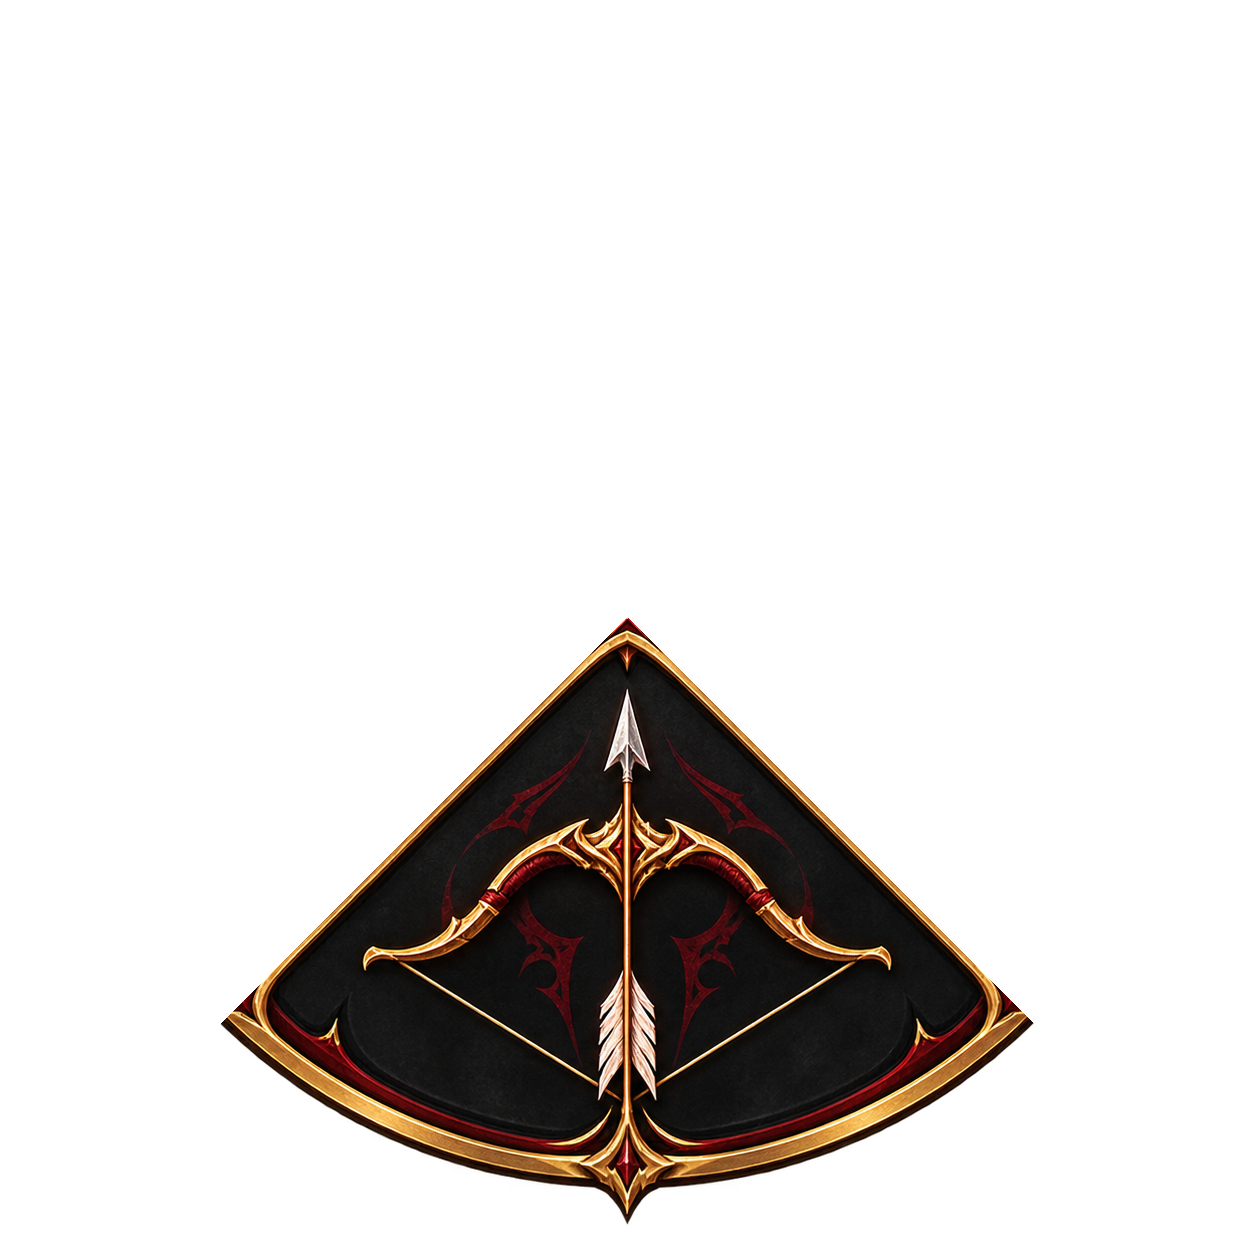
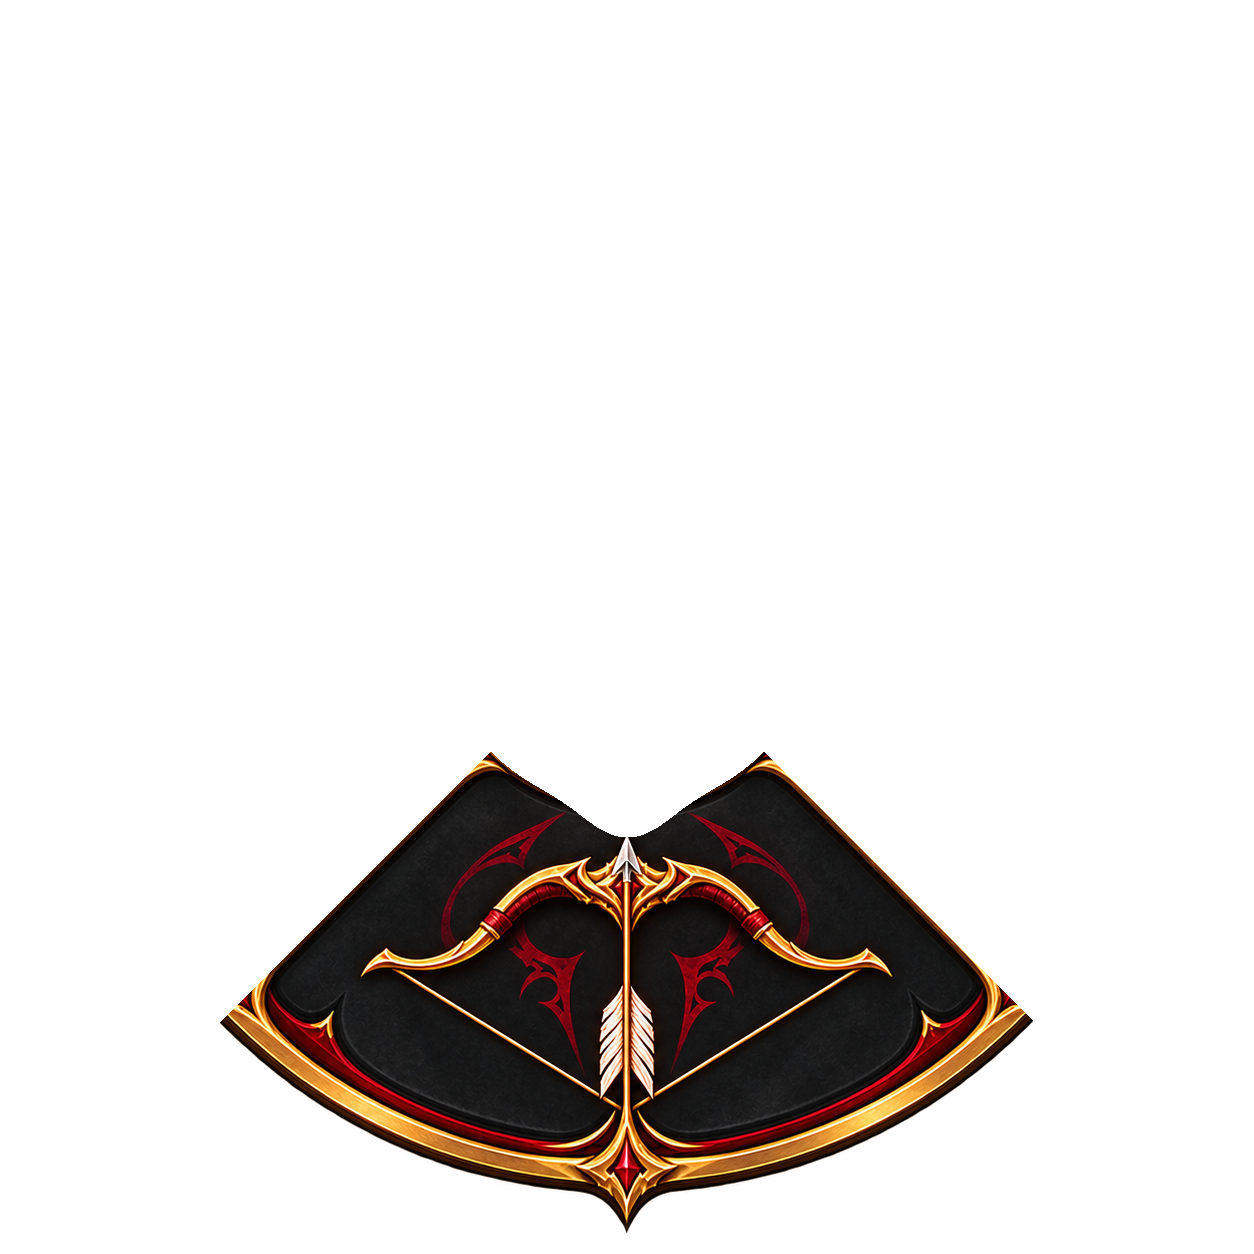
공격 버튼: 새 그림(가운데 공격 원), 1.3배, 가운데·대각선은 무기 유지·가장자리만 무기 변경
Claude-Session: https://claude.ai/code/session_011LLFgXL2gE2cujxs1GaS93

diff --git a/src/town/ui.js b/src/town/ui.js
@@ -228,17 +228,21 @@ atk.addEventListener('pointerdown', e => {
 });
 // X자 공격 버튼: 위=창, 아래=활, 왼쪽=검, 오른쪽=지팡이(케인 시안 attack_selector). 누른 구역 무기로 즉시 바꿔 들고 공격.
 const ZONE_SLOT={up:'w4',down:'w3',left:'w1',right:'w2'},ZONE_NAME={w1:'검',w2:'지팡이',w3:'활',w4:'창'};
-function zoneAt(e){const r=atk.getBoundingClientRect(),dx=e.clientX-(r.left+r.width/2),dy=e.clientY-(r.top+r.height/2);return Math.abs(dx)>Math.abs(dy)?(dx<0?'left':'right'):(dy<0?'up':'down');}
+// 가운데 원(반지름 36%) = 지금 무기로 공격만. 대각선 경계(두 방향 차이 20% 안)도 무기 그대로. 가장자리를 확실히 눌러야 무기 변경
+function zoneAt(e){const r=atk.getBoundingClientRect(),R=r.width/2,dx=e.clientX-(r.left+R),dy=e.clientY-(r.top+R),ax=Math.abs(dx),ay=Math.abs(dy);
+  if(Math.hypot(dx,dy)<R*.36)return null;if(Math.abs(ax-ay)<Math.max(ax,ay)*.2)return null;
+  return ax>ay?(dx<0?'left':'right'):(dy<0?'up':'down');}
 function switchWeapon(slot,quiet){
   if(!isWSlot(slot)||slot===cur)return !!eq[slot];
   if(!eq[slot]){if(!quiet)G.say(ZONE_NAME[slot]+' 칸이 비어 있습니다');return false;}
   qsSaveCur();cur=slot;qsLoadCur();syncHud();saveGame();return true;
 }
-function pickZoneWeapon(e){if(e&&e.clientX!=null)switchWeapon(ZONE_SLOT[zoneAt(e)]);}
+function pickZoneWeapon(e){if(!e||e.clientX==null)return;const z=zoneAt(e);if(z)switchWeapon(ZONE_SLOT[z]);}
 function syncAtkZones(){
   if(!atk.querySelector('.atkz')&&A.kit&&A.kit.atk_all){
     atk.style.backgroundImage='url('+A.kit.atk_all+')';atk.classList.add('xsel');
     for(const [z,k] of [['up','atk_spear'],['down','atk_bow'],['left','atk_sword'],['right','atk_magic']]){const im=document.createElement('img');im.className='atkz';im.dataset.z=z;im.alt='';im.src=A.kit[k];atk.append(im);}
+    if(A.kit.atk_center){const c=document.createElement('img');c.className='atkc';c.alt='';c.src=A.kit.atk_center;atk.append(c);}
   }
   for(const im of atk.querySelectorAll('.atkz')){const sl=ZONE_SLOT[im.dataset.z];im.classList.toggle('zon',sl===cur&&!!eq[sl]);im.classList.toggle('zdim',sl!==cur&&!!eq[sl]);im.classList.toggle('zno',!eq[sl]);}
   atkIc.style.display=atk.classList.contains('xsel')?'none':'';
@@ -269,8 +273,8 @@ requestAnimationFrame(frame);
 
 
 // ---- 퀵슬롯 5칸 (케인 시안 위치). 비워 두고, 스킬 탭에서 끌어다 놓아 채움 ----
-const QPOS = [[-49, -88], [27, -102], [-99, -39], [-95, 32], [-47, 85]];   // 큰 버튼 가운데 기준
-const SWAPPOS = [30, 88];
+const QPOS = [[-49, -88], [27, -102], [-99, -39], [-95, 32], [-47, 85]].map(([x,y])=>[Math.round(x*1.12),Math.round(y*1.12)]);   // 공격 버튼 1.3배에 맞춰 바깥으로   // 큰 버튼 가운데 기준
+const SWAPPOS = [35, 104];
 const QS = [null, null, null, null, null];
 // 무기별 스킬 칸(케인 2026-10-14): 무기를 바꾸면 둘레 5칸도 그 무기 것으로 바뀐다.
 const QSW={w1:[null,null,null,null,null],w2:[null,null,null,null,null],w3:[null,null,null,null,null],w4:[null,null,null,null,null]};
@@ -302,7 +306,7 @@ const lifeIcon=id=>A.skicon[LIFE_ICON[id]]||K.ring;
 const quickLearned=id=>id==='townPortal'?((G.P.lifeSkills&&G.P.lifeSkills.townPortal)||0)>0:skillLearned(id);
 const quickIcon=id=>id==='townPortal'?lifeIcon('townPortal'):A.skicon[id];
 const skBtns = [...document.querySelectorAll('.sk')];
-const C0 = 62;
+const C0 = 80.5;   // 공격 버튼(161px) 가운데
 skBtns.forEach((b, i) => { b.style.left = (C0 + QPOS[i][0]) + 'px'; b.style.top = (C0 + QPOS[i][1]) + 'px'; b.hidden = false; });
 $('swap').style.left = (C0 + SWAPPOS[0]) + 'px'; $('swap').style.top = (C0 + SWAPPOS[1]) + 'px';
 // 물약 버튼 3개: 빨강 HP / 파랑 MP / 보라 HP+MP, 각 7티어.

diff --git a/src/town/shell.html b/src/town/shell.html
@@ -223,7 +223,7 @@ html.app #fs{display:none}
 #stick{position:fixed;left:max(46px,calc(env(safe-area-inset-left) + 46px));bottom:34px;width:128px;height:128px;border-radius:50%;background:radial-gradient(circle,#ffffff22,#ffffff14 60%,#ffffff08);border:2px solid #ffffff30;pointer-events:none;opacity:.45;transition:opacity .15s}
 #stick.act{opacity:1}
 #knob{position:absolute;left:36px;top:36px;width:56px;height:56px;border-radius:50%;background:radial-gradient(circle at 40% 35%,#ffffff70,#ffffff35);box-shadow:0 2px 6px #0005}
-#cluster{position:fixed;right:max(24px,calc(env(safe-area-inset-right) + 24px));bottom:74px;width:124px;height:124px;pointer-events:none}
+#cluster{position:fixed;right:max(24px,calc(env(safe-area-inset-right) + 24px));bottom:74px;width:161px;height:161px;pointer-events:none}
 .qsp{position:absolute;left:58px;right:52px;top:100px;bottom:52px;display:flex;flex-direction:column;justify-content:space-evenly;gap:10px;padding:12px 14px;border-radius:16px;background:#efe0bd;box-shadow:inset 0 0 0 2px #c9a46a,0 2px 8px #0004}
 .qsnote{font:700 13px "Noto Sans KR",sans-serif;color:#5a3a1c;background:#fff6e2c0;border-radius:8px;padding:7px 10px;line-height:1.35}
 .qsrow{display:flex;align-items:center;gap:8px;padding:8px 8px;border-radius:12px;background:#3a240f22}
@@ -236,6 +236,8 @@ html.app #fs{display:none}
 #atk .atkz{position:absolute;inset:0;width:100%;height:100%;pointer-events:none;opacity:0;transition:opacity .12s}
 #atk .atkz.zon{opacity:1;filter:brightness(1.45) saturate(1.2) drop-shadow(0 0 9px #ffd76a) drop-shadow(0 0 3px #fff3c0)}
 #atk .atkz.zdim{opacity:.6;filter:brightness(.35)}
+#atk .atkc{position:absolute;inset:0;width:100%;height:100%;pointer-events:none;filter:drop-shadow(0 0 4px #000a)}
+#atk:active .atkc{filter:brightness(1.35) drop-shadow(0 0 8px #ffd76a)}
 #atk .atkz.zno{opacity:.85;filter:grayscale(1) brightness(.22)}
 #swap{display:none!important}
 #atk{position:absolute;inset:0;border:0;padding:0;border-radius:50%;background:var(--ring) center/100% 100% no-repeat;pointer-events:auto;filter:drop-shadow(0 4px 6px #000a);transition:transform .08s}
@@ -348,14 +350,14 @@ html.app #fs{display:none}
 .pot{position:fixed;width:34px!important;height:34px!important;margin:0!important;left:auto!important;top:136px!important}
 #potDual{right:calc(max(10px,env(safe-area-inset-right)) + 9px)}#potMp{right:calc(max(10px,env(safe-area-inset-right)) + 50px)}#potHp{right:calc(max(10px,env(safe-area-inset-right)) + 91px)}
 .pot b{min-width:15px;height:15px;font-size:9px;line-height:11px}
-#cluster{width:93px;height:93px;bottom:44px}
+#cluster{width:121px;height:121px;bottom:44px}
 #atkCap{font-size:11px}
 .sk{width:42px;height:42px;margin:-21px 0 0 -21px}
-.sk[data-i="0"]{left:9.75px!important;top:-19.5px!important}
-.sk[data-i="1"]{left:66.75px!important;top:-30px!important}
-.sk[data-i="2"]{left:-27.75px!important;top:17.25px!important}
-.sk[data-i="3"]{left:-24.75px!important;top:70.5px!important}
-.sk[data-i="4"]{left:11.25px!important;top:110.25px!important}
+.sk[data-i="0"]{left:19.34px!important;top:-13.42px!important}
+.sk[data-i="1"]{left:83.18px!important;top:-25.18px!important}
+.sk[data-i="2"]{left:-22.66px!important;top:27.74px!important}
+.sk[data-i="3"]{left:-19.30px!important;top:87.38px!important}
+.sk[data-i="4"]{left:21.02px!important;top:131.90px!important}
 #swap{width:40px;height:40px;margin:-20px 0 0 -20px;left:69px!important;top:112.5px!important}
 }
 #boot{position:fixed;inset:0;z-index:9999;background:#0b0806;transition:opacity .45s ease}

diff --git a/src/town/build.py b/src/town/build.py
@@ -661,8 +661,8 @@ s2b = Image.open(R + 'ui/kit_c/kit_c_02b.png').convert('RGBA')
 KIT['hpbar'] = enc(Image.open(R + 'ui/hud_clean/bar_hp.png').convert('RGBA'), 92); KIT['mpbar'] = enc(Image.open(R + 'ui/hud_clean/bar_mp.png').convert('RGBA'), 92)   # tools/hud_clean.py로 테두리만 깨끗하게 잘라 낸 막대
 KIT['pring'] = enc(Image.open(R + 'ui/hud_clean/portrait_ring.png').convert('RGBA'), 92)
 # 4무기 X자 공격 버튼(케인 제공 2026-10-14): 전체 원판 + 구역별 강조 그림(같은 캔버스 위치)
-for _k, _f in [('atk_all','attack_all'),('atk_spear','spear_top'),('atk_sword','sword_left'),('atk_magic','magic_right'),('atk_bow','bow_bottom')]:
-    _im = Image.open(os.path.join(ROOT, 'source_sheets', 'ui', 'attack_selector', _f + '.png')).convert('RGBA').resize((256, 256), Image.LANCZOS)
+for _k, _f in [('atk_all','attack_all'),('atk_spear','spear_top'),('atk_sword','sword_left'),('atk_magic','magic_right'),('atk_bow','bow_bottom'),('atk_center','attack_center')]:
+    _im = Image.open(os.path.join(ROOT, 'source_sheets', 'ui', 'attack_selector', _f + '.png')).convert('RGBA').resize((320, 320), Image.LANCZOS)
     KIT[_k] = enc(_im, 88)   # 안쪽을 뚫은 초상화 고리
 rg = Image.open(R + 'ui/hud_icons/ring_empty.png').convert('RGBA'); rg.thumbnail((200, 200), Image.LANCZOS); KIT['ring'] = enc(rg, 90)
 SKI = {}

diff --git a/docs/WORKLOG.md b/docs/WORKLOG.md
@@ -1406,3 +1406,10 @@
 - 미니맵: GPT 발열 최적화(10/11)의 10Hz 제한을 풀고 매 프레임 그리기로 복구(미니맵만, 나머지 최적화는 유지).
 - 장비창: 옛 허리띠·별 칸 덮개(EQ_OFF .off)를 더 이상 그리지 않음 → 활·창 칸이 다른 칸처럼 보임.
 - 탭: 장비/능력치/스킬/무역품 글자를 각 탭 버튼 안 아래쪽에 표시.
+
+## 2026-10-14 · Claude · 공격 버튼 새 그림·1.3배·가운데 공격·대각선 보정
+- 케인 요청: 오작동이 많아 버튼을 키우고, 새 버튼 에셋(attack_selector_5: 바깥 4방향 + 가운데 공격 원) 적용.
+- source_sheets/ui/attack_selector/ 6장 교체·추가(attack_center), build.py KIT에 atk_center 추가, 해상도 256→320.
+- ui.js zoneAt: 가운데 원(반지름 36%) 안 = 지금 무기로 공격만, 두 방향 차이 20% 안의 대각선 = 무기 그대로, 가장자리를 확실히 눌러야 무기 변경.
+- 크기: #cluster 124→161px(휴대폰 93→121px), 스킬 칸 위치는 1.12배 바깥으로.
+- 남은 요청(모아 둠): 주인공이 창을 들 때 창기사 옷에 푸른 느낌 덧씌우기.
